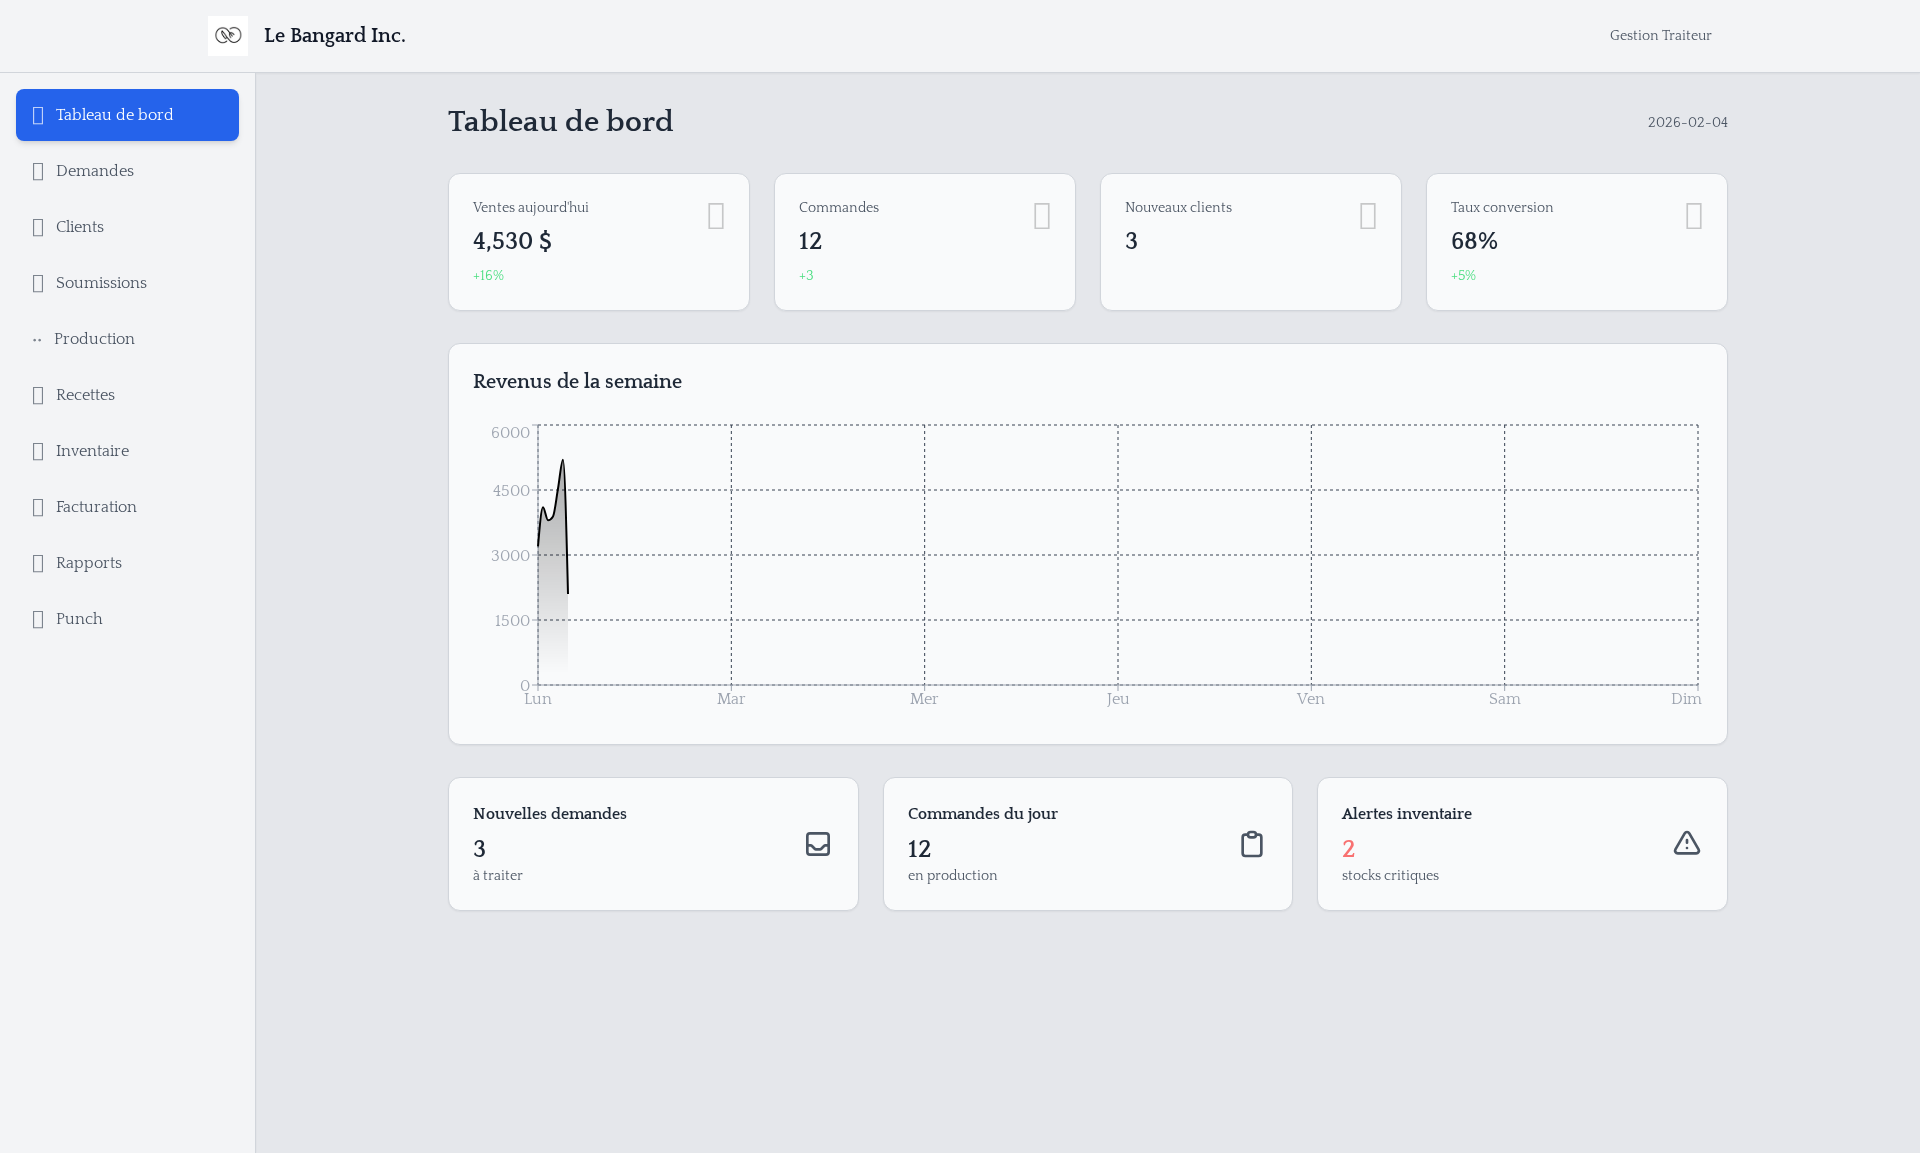
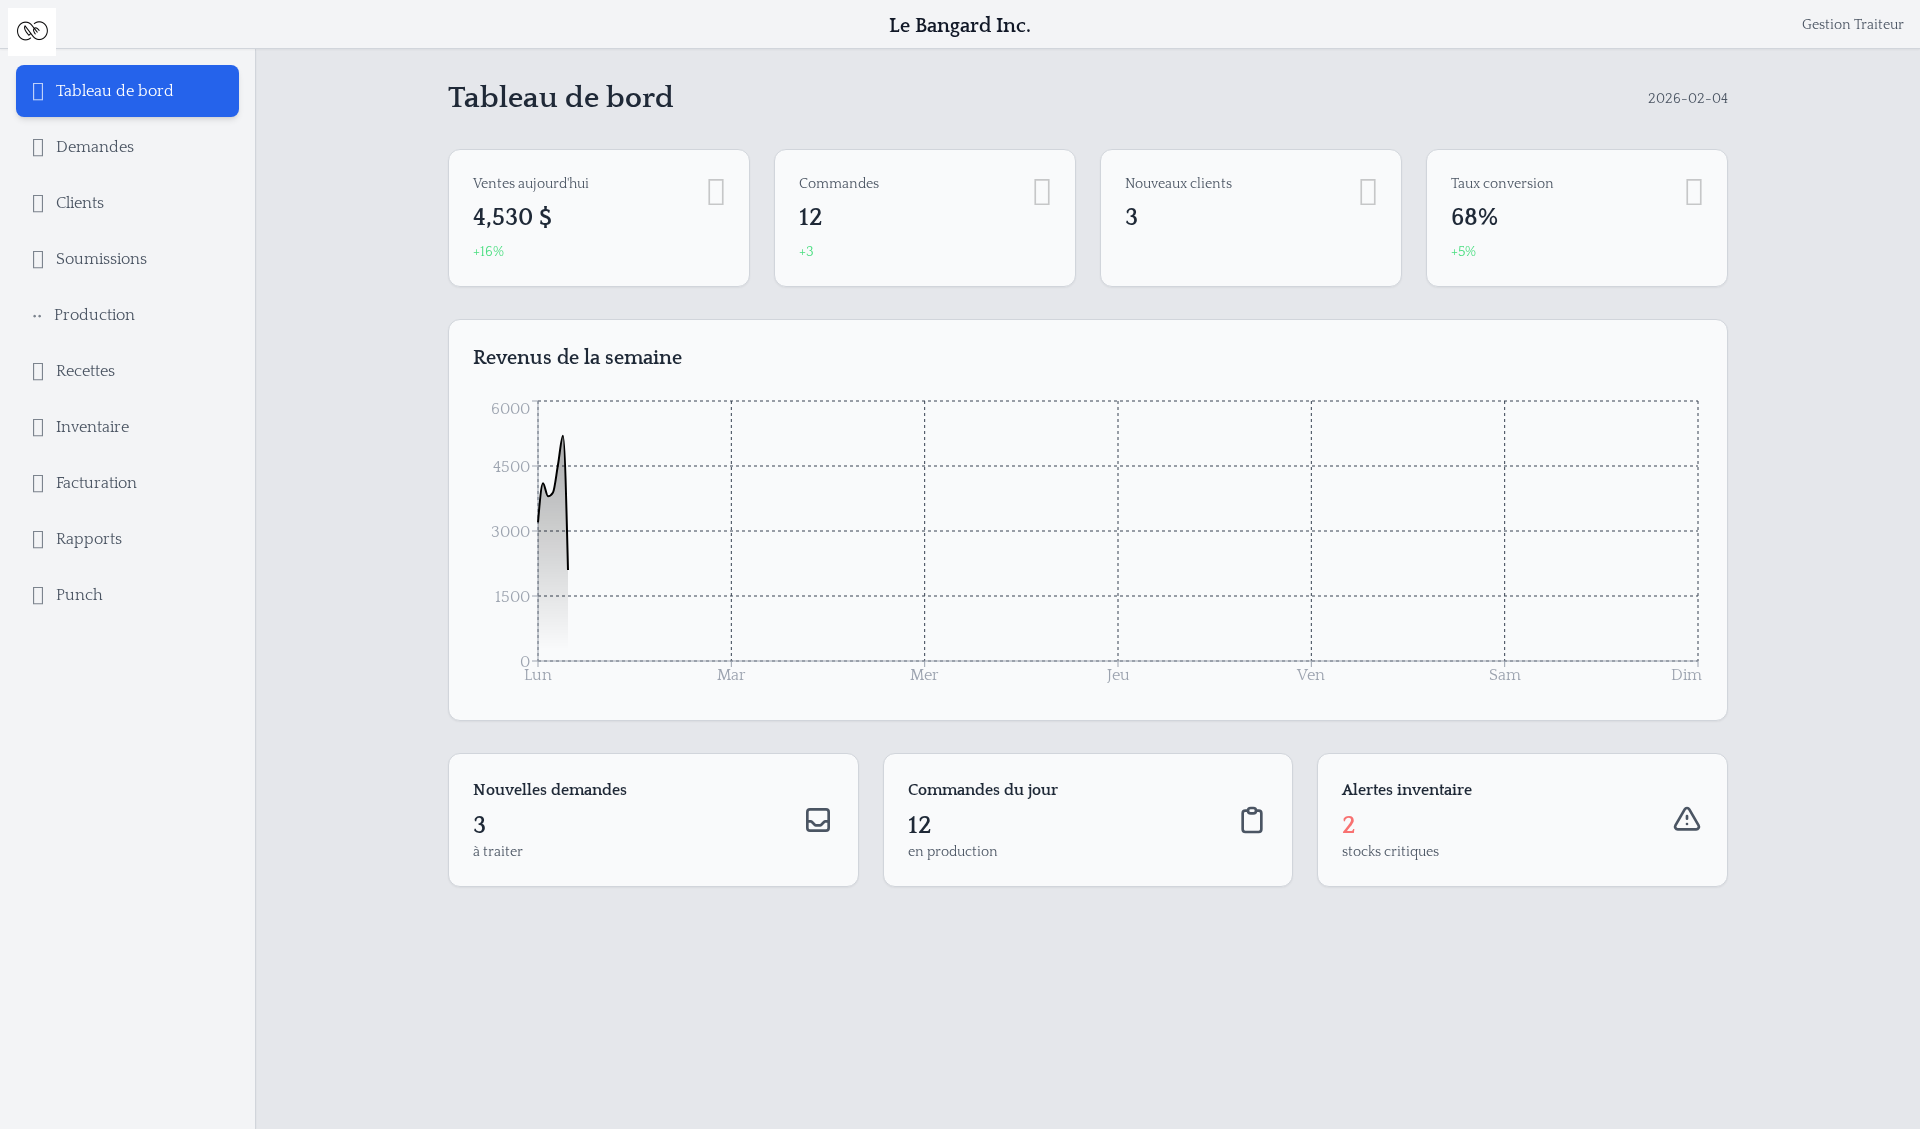
feat(prototype): 1. LOrsque lon rentre un pin et qu'une shift est en cour on montre juste
Comment by: Le Bangard Inc.
Feedback ID: 0369ac5f-22fc-4863-bbdd-e53725b01f42
Auto-generated by Claude Code

diff --git a/index.html b/index.html
@@ -1476,6 +1476,14 @@
           };
         });
 
+        // Fonction pour vérifier si l'employé actuel a un shift en cours
+        const hasActiveShift = () => {
+          if (!currentEmployee) return false;
+          const empPunches = todayPunches.filter(p => p.employeeId === currentEmployee.id);
+          const lastPunch = empPunches[0];
+          return lastPunch && lastPunch.type === 'in';
+        };
+
         return (
           <div className="max-w-6xl mx-auto space-y-8">
             <div className="flex items-center justify-between">
@@ -1553,24 +1561,45 @@
                 ) : (
                   /* Boutons Check-in/Check-out */
                   <div className="space-y-4">
-                    <button
-                      onClick={() => handlePunch('in')}
-                      className="w-full h-32 bg-green-700 hover:bg-green-600 rounded-xl text-3xl font-bold text-white transition-all hover:scale-105 active:scale-95 flex items-center justify-center gap-4"
-                    >
-                      <svg className="w-12 h-12" fill="none" stroke="currentColor" viewBox="0 0 24 24">
-                        <path strokeLinecap="round" strokeLinejoin="round" strokeWidth={3} d="M13 9l3 3m0 0l-3 3m3-3H8m13 0a9 9 0 11-18 0 9 9 0 0118 0z" />
-                      </svg>
-                      CHECK-IN
-                    </button>
-                    <button
-                      onClick={() => handlePunch('out')}
-                      className="w-full h-32 bg-red-700 hover:bg-red-600 rounded-xl text-3xl font-bold text-white transition-all hover:scale-105 active:scale-95 flex items-center justify-center gap-4"
-                    >
-                      <svg className="w-12 h-12" fill="none" stroke="currentColor" viewBox="0 0 24 24">
-                        <path strokeLinecap="round" strokeLinejoin="round" strokeWidth={3} d="M11 15l-3-3m0 0l3-3m-3 3h8M3 12a9 9 0 1118 0 9 9 0 01-18 0z" />
-                      </svg>
-                      CHECK-OUT
-                    </button>
+                    {hasActiveShift() ? (
+                      /* Si shift en cours, afficher seulement le bouton CHECK-OUT */
+                      <>
+                        <button
+                          onClick={() => handlePunch('out')}
+                          className="w-full h-32 bg-red-700 hover:bg-red-600 rounded-xl text-3xl font-bold text-white transition-all hover:scale-105 active:scale-95 flex items-center justify-center gap-4"
+                        >
+                          <svg className="w-12 h-12" fill="none" stroke="currentColor" viewBox="0 0 24 24">
+                            <path strokeLinecap="round" strokeLinejoin="round" strokeWidth={3} d="M11 15l-3-3m0 0l3-3m-3 3h8M3 12a9 9 0 1118 0 9 9 0 01-18 0z" />
+                          </svg>
+                          CHECK-OUT
+                        </button>
+                        <p className="text-center text-sm text-gray-600 mt-2">
+                          Shift en cours depuis {todayPunches.find(p => p.employeeId === currentEmployee.id && p.type === 'in')?.time}
+                        </p>
+                      </>
+                    ) : (
+                      /* Si pas de shift en cours, afficher les deux boutons */
+                      <>
+                        <button
+                          onClick={() => handlePunch('in')}
+                          className="w-full h-32 bg-green-700 hover:bg-green-600 rounded-xl text-3xl font-bold text-white transition-all hover:scale-105 active:scale-95 flex items-center justify-center gap-4"
+                        >
+                          <svg className="w-12 h-12" fill="none" stroke="currentColor" viewBox="0 0 24 24">
+                            <path strokeLinecap="round" strokeLinejoin="round" strokeWidth={3} d="M13 9l3 3m0 0l-3 3m3-3H8m13 0a9 9 0 11-18 0 9 9 0 0118 0z" />
+                          </svg>
+                          CHECK-IN
+                        </button>
+                        <button
+                          onClick={() => handlePunch('out')}
+                          className="w-full h-32 bg-red-700 hover:bg-red-600 rounded-xl text-3xl font-bold text-white transition-all hover:scale-105 active:scale-95 flex items-center justify-center gap-4"
+                        >
+                          <svg className="w-12 h-12" fill="none" stroke="currentColor" viewBox="0 0 24 24">
+                            <path strokeLinecap="round" strokeLinejoin="round" strokeWidth={3} d="M11 15l-3-3m0 0l3-3m-3 3h8M3 12a9 9 0 1118 0 9 9 0 01-18 0z" />
+                          </svg>
+                          CHECK-OUT
+                        </button>
+                      </>
+                    )}
                     <button
                       onClick={clearPin}
                       className="w-full py-3 bg-gray-200 hover:bg-gray-300 rounded-lg text-gray-600 transition-all"
@@ -2110,21 +2139,26 @@
       return (
         <div className="min-h-screen bg-gray-200">
           {/* Header avec logo */}
-          <header className="bg-gray-100 border-b border-gray-300 shadow-sm">
-            <div className="container mx-auto px-4 py-4">
-              <div className="flex items-center justify-between">
-                <div className="flex items-center gap-4">
-                  <img
-                    src="https://lebangard.com/favicon-192x192.png"
-                    alt="Le Bangard Inc."
-                    className="h-10 w-10"
-                    onError={(e) => { e.target.src = "https://lebangard.com/favicon-180x180.png"; }}
-                  />
-                  <h1 className="text-xl font-display font-bold text-gray-900">Le Bangard Inc.</h1>
-                </div>
-                <div className="flex items-center gap-4">
-                  <span className="text-sm text-gray-600">Gestion Traiteur</span>
-                </div>
+          <header className="bg-gray-100 border-b border-gray-300 shadow-sm relative">
+            <div className="flex items-center justify-between py-2">
+              {/* Logo dans le coin gauche */}
+              <div className="absolute left-2 top-2">
+                <img
+                  src="https://lebangard.com/favicon-192x192.png"
+                  alt="Le Bangard Inc."
+                  className="h-12 w-12"
+                  onError={(e) => { e.target.src = "https://lebangard.com/favicon-180x180.png"; }}
+                />
+              </div>
+
+              {/* Titre centré */}
+              <div className="flex-1 text-center">
+                <h1 className="text-xl font-display font-bold text-gray-900 mt-1">Le Bangard Inc.</h1>
+              </div>
+
+              {/* Info à droite */}
+              <div className="absolute right-4 top-1/2 -translate-y-1/2">
+                <span className="text-sm text-gray-600">Gestion Traiteur</span>
               </div>
             </div>
           </header>
